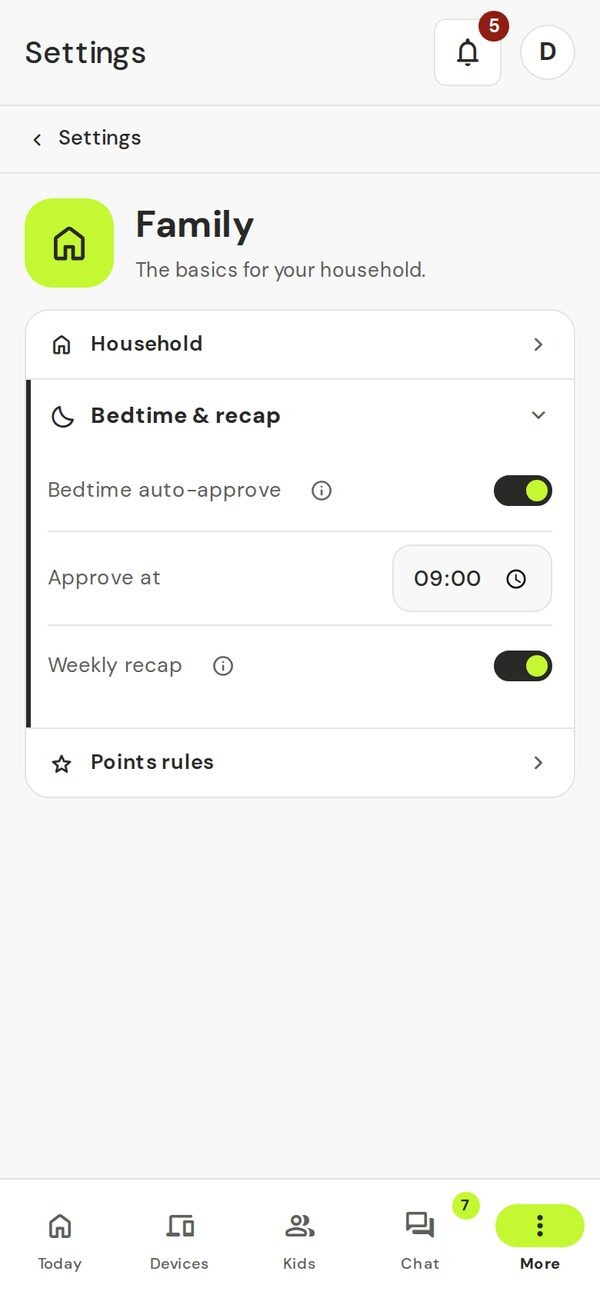
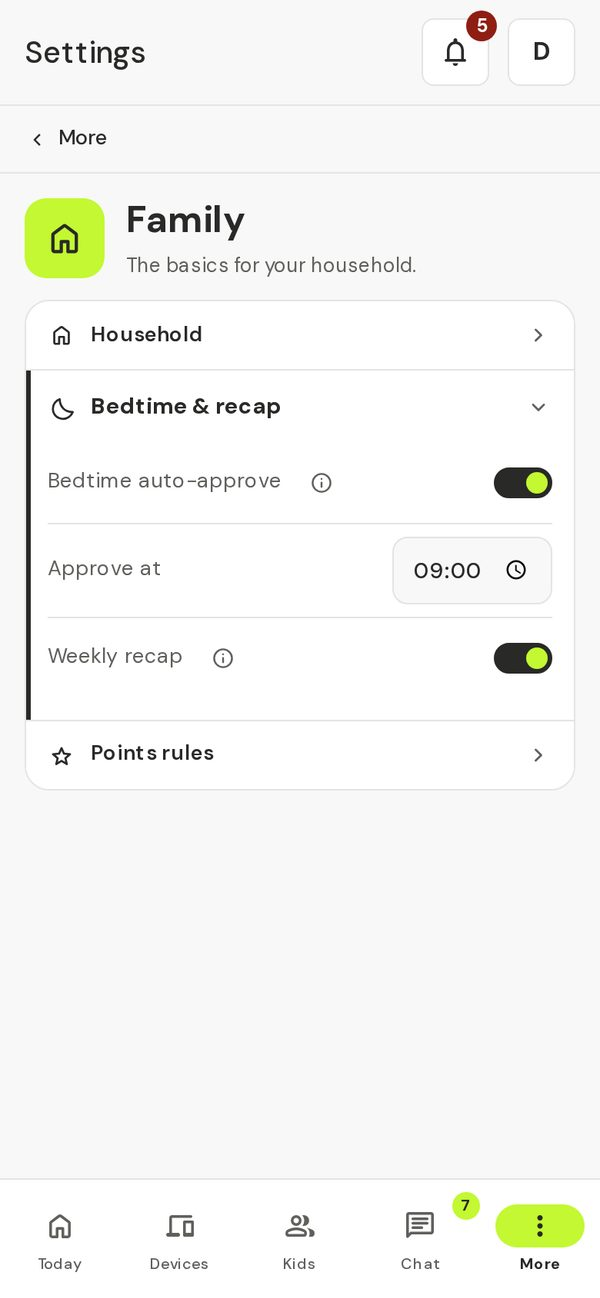
docs(guide): retake remaining declutter images; PIN error is an alert (#75)
* fix(kids): PIN error is announced as an alert

* chore(shots): FILL and SCROLLBLOCK options

* chore(shots): CLICK reaches menu items; BLUR clears the focus ring

* docs(guide): retake remaining declutter images

---------

diff --git a/frontend/tests/v2/polish.test.tsx b/frontend/tests/v2/polish.test.tsx
@@ -57,6 +57,30 @@ test('KidProfileForm rejects a PIN that is not 4 digits and cannot be saved', as
   expect(screen.getByRole('button', { name: 'Save' })).toBeDisabled()
 })
 
+test('KidProfileForm PIN error is an alert, flags the field, and clears when fixed', async () => {
+  const kid = { id: 3, full_name: 'Zed', username: 'zed', avatar: null, has_pin: false, age_group: 'kid' } as const
+  render(wrap(<KidProfileForm kid={kid} onSaved={() => {}} />))
+  const input = screen.getByLabelText(/PIN \(4 digits\)/)
+  await userEvent.type(input, '12')
+  expect(screen.getByRole('alert')).toHaveTextContent('Use exactly 4 digits.')
+  expect(input).toHaveAttribute('aria-invalid', 'true')
+  await userEvent.type(input, '34')
+  expect(input).toHaveValue('1234')
+  expect(screen.queryByRole('alert')).toBeNull()
+  expect(input).toHaveAttribute('aria-invalid', 'false')
+  expect(screen.getByRole('button', { name: 'Save' })).toBeEnabled()
+})
+
+test('KidProfileForm PIN with letters shows the digits-only alert', async () => {
+  const kid = { id: 3, full_name: 'Zed', username: 'zed', avatar: null, has_pin: false, age_group: 'kid' } as const
+  render(wrap(<KidProfileForm kid={kid} onSaved={() => {}} />))
+  const input = screen.getByLabelText(/PIN \(4 digits\)/)
+  await userEvent.type(input, '12ab')
+  expect(input).toHaveValue('12')
+  expect(screen.getByRole('alert')).toHaveTextContent('A PIN is digits only, exactly 4.')
+  expect(screen.getByRole('button', { name: 'Save' })).toBeDisabled()
+})
+
 test('kid name survives a reload on a shared device', async () => {
   const kids = [
     { id: 1, full_name: 'Ana', avatar: null, has_pin: false },

diff --git a/site/index.html b/site/index.html
@@ -99,7 +99,7 @@
             <figcaption><h3>Today</h3><p>See each kid's day at a glance: what's done, what's waiting and what's overdue.</p></figcaption>
           </figure>
           <figure class="f-card shot">
-            <img src="img/needs-you.jpg" width="600" height="1298" loading="lazy" alt="Needs you on a phone, grouped by kid: chores, a redo, a screen time request and a reward request, each with one Approve button and a menu for the rest.">
+            <img src="img/needs-you.jpg" width="600" height="1298" loading="lazy" alt="Needs you on a phone, grouped by kid: chores, a redo, a screen time request, a reward request and a note. Each item has one main button (Approve or Reply) and a menu for the rest.">
             <figcaption><h3>Needs you</h3><p>One list for everything waiting: chores, redos, screen time and reward requests. Approve them one by one or all at once.</p></figcaption>
           </figure>
         </div>

diff --git a/frontend/src/v2/manage/KidEditor.tsx b/frontend/src/v2/manage/KidEditor.tsx
@@ -32,7 +32,7 @@ function usePin() {
   }
 }
 const pinError = (p: ReturnType<typeof usePin>) =>
-  (p.bad || p.letters) && <span className="pk-error">{p.letters ? 'A PIN is digits only, exactly 4.' : 'Use exactly 4 digits.'}</span>
+  (p.bad || p.letters) && <span className="pk-error" role="alert">{p.letters ? 'A PIN is digits only, exactly 4.' : 'Use exactly 4 digits.'}</span>
 
 const AgeSelect = ({ value, onChange }: { value: AgeGroup; onChange: (a: AgeGroup) => void }) => (
   <select className="pk-input kd-in" aria-label="Age group" value={value} onChange={(e) => onChange(e.currentTarget.value as AgeGroup)}>

diff --git a/docs/guide/img/SHOTS.md b/docs/guide/img/SHOTS.md
@@ -56,3 +56,11 @@ Retaken 2026-11-08 after polish pass 5 (rail t@ and lime tile, 44px phone contro
 - `trust-kid.jpg`: Retaken 2026-11-08, polish pass 5
 - `recap.jpg`: Retaken 2026-11-08, polish pass 5
 - `site/img/today-hero.jpg`, `today-parent.jpg`, `needs-you.jpg`: Retaken 2026-11-08, polish pass 5
+
+Retaken 2026-11-10 from the current UI after the polish passes and the header-tools change (#73, #74: boxed account and … buttons, phone Settings back link **‹ More**), mocked API (`scripts/shots/declutter`, light, focus ring cleared with `BLUR=1`, mouse parked, 1280x700 desktop or 390x844 phone at 2x resized to 600 wide, JPEG quality 82):
+- `group-price.jpg`: `/devices?tab=groups&item=1&open=gset`
+- `extras.jpg`: `/settings?section=family&open=bed`
+- `wasnt-done.jpg`: Maya's **Trust** row, **More for Clean room** → **Wasn't done**
+- `happy-hour-start.jpg`: Today **…** menu → **Start Happy Hour**
+- `setup-devices.jpg`: `/setup?open=need` at step 6, **Owner** pop-over for Dad's laptop
+- `site/img/needs-you.jpg`: `/?focus=needs` scrolled so the **Needs you** card starts at the top (`SCROLLTO=.pt-needs SCROLLBLOCK=start`); the alt text now names the note row
